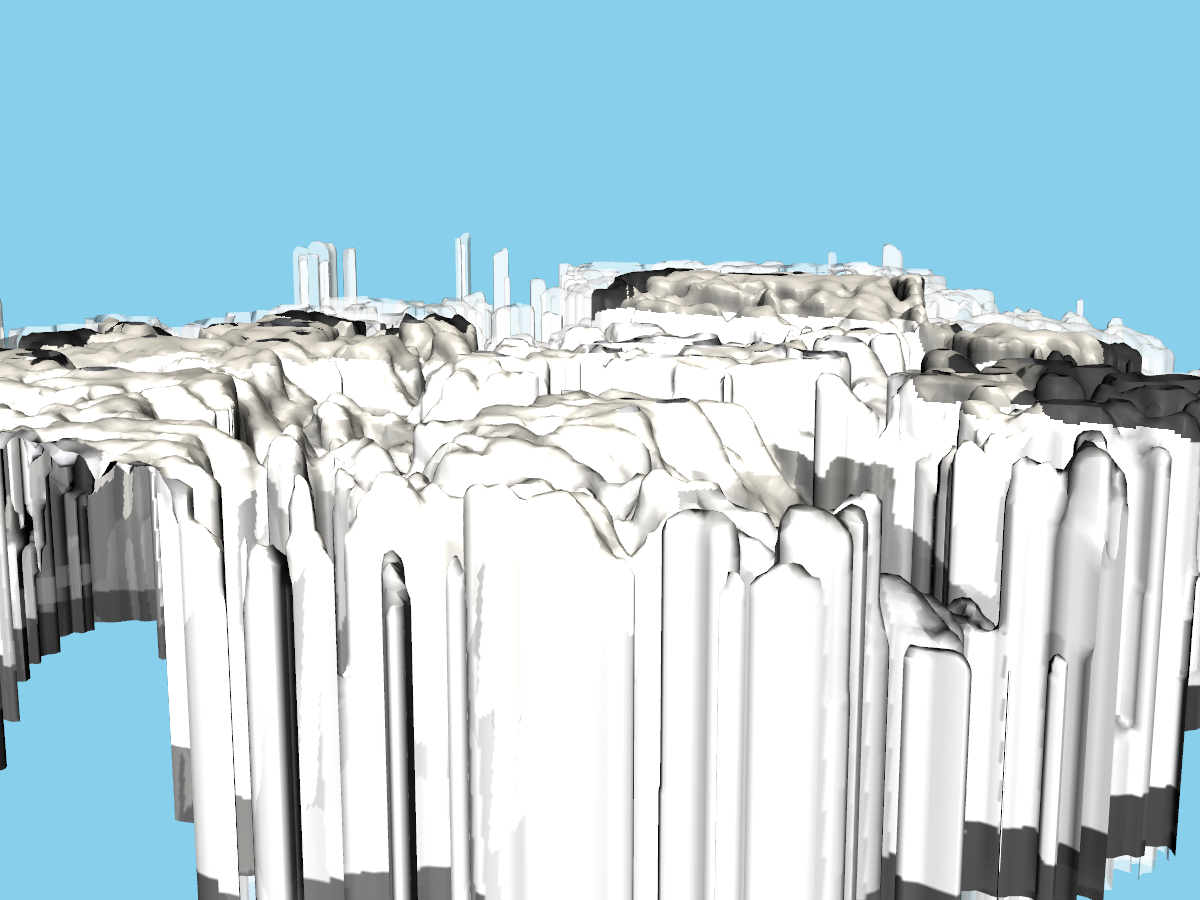
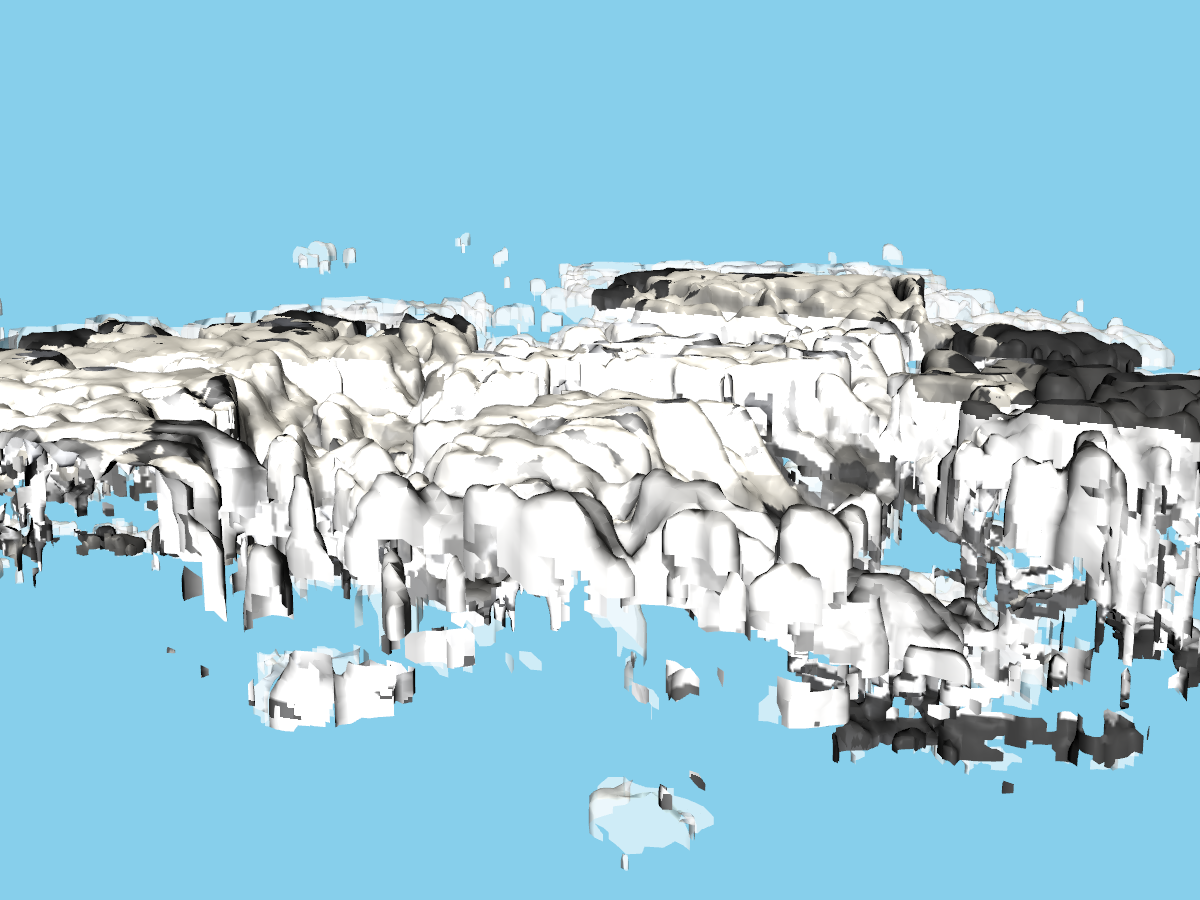
Fix vertical column artifact by filtering surfaces to cloud regions only
The previous implementation extended isosurfaces through clear air below
clouds, creating vertical columns. This fix adds local optical depth
thresholding to only render surfaces where actual cloud material exists.

Changes:
- Add local_optical_depth field to grid for filtering
- Apply threshold filter to extracted surfaces to remove clear-air regions
- Apply same filtering to both primary and secondary surfaces
- Significantly reduces surface points (e.g., 374k -> 103k for TWPICE 256)

Result: Clouds now render as localized blobs with proper 3D structure
instead of extending vertically through empty space.

diff --git a/cloudyview/observe.py b/cloudyview/observe.py
@@ -142,9 +142,19 @@ def main(filename: str, output: str = None, tau_threshold: float = 0.5, tau_thre
         xx, yy, zz = np.meshgrid(x_coord, y_coord, z_coord, indexing='ij')
         grid = pv.StructuredGrid(xx, yy, zz)
         grid['tau_from_top'] = tau_from_top.ravel(order='F')
+        grid['local_optical_depth'] = optical_depth_per_layer.ravel(order='F')
 
         # Extract isosurface at tau threshold
         surface = grid.contour([tau_threshold], scalars='tau_from_top')
+
+        # Filter surface to only keep points where there's actual cloud nearby
+        # This prevents vertical columns through clear air
+        if surface.n_points > 0:
+            # Get the local optical depth at each surface point
+            surface = surface.compute_cell_sizes()
+            # Threshold: keep only surface regions where local optical depth is significant
+            cloud_threshold = 1e-6
+            surface = surface.threshold(cloud_threshold, scalars='local_optical_depth', preference='point')
 
         if surface.n_points == 0:
             print(f"  Warning: No surface found at tau={tau_threshold}")
@@ -158,6 +168,12 @@ def main(filename: str, output: str = None, tau_threshold: float = 0.5, tau_thre
         if tau_threshold_2 is not None:
             print(f"  Creating second surface at tau = {tau_threshold_2}...")
             surface_2 = grid.contour([tau_threshold_2], scalars='tau_from_top')
+
+            # Filter second surface the same way
+            if surface_2.n_points > 0:
+                surface_2 = surface_2.compute_cell_sizes()
+                surface_2 = surface_2.threshold(cloud_threshold, scalars='local_optical_depth', preference='point')
+
             if surface_2.n_points > 0:
                 print(f"  Second surface: {surface_2.n_points} points, {surface_2.n_cells} cells")
             else:
